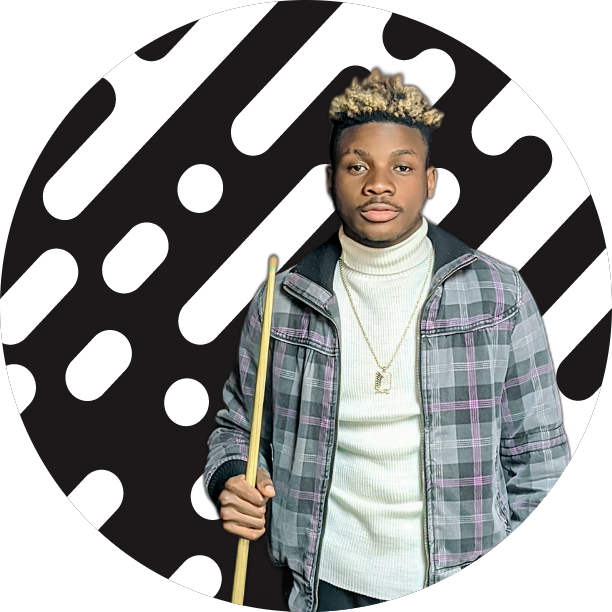
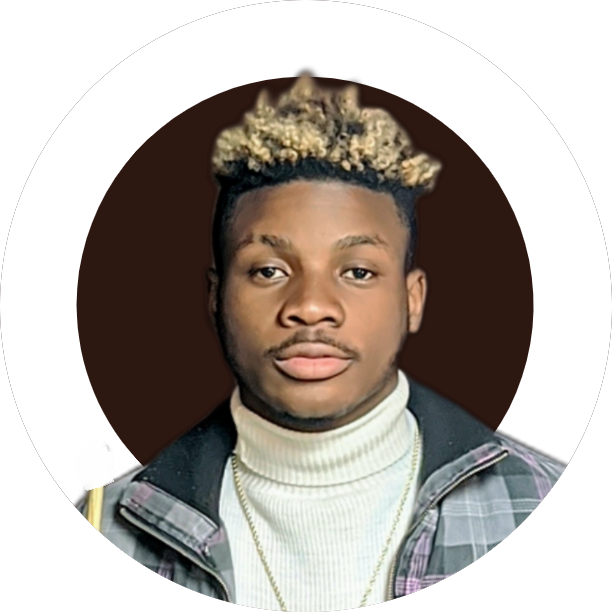
Modification de la section compétences et de la photo de profil

diff --git a/index.html b/index.html
@@ -8,7 +8,7 @@
 		<title>Machkour Oke</title>
 		<link rel="icon" type="image/x-icon" href="assets/img/favicon.ico"/>
 		<script src="https://use.fontawesome.com/releases/v6.1.0/js/all.js" crossorigin="anonymous"></script>
-
+		
 		<link href="https://fonts.googleapis.com/css?family=Saira+Extra+Condensed:500,700" rel="stylesheet"
 		      type="text/css"/>
 		<link href="https://fonts.googleapis.com/css?family=Muli:400,400i,800,800i" rel="stylesheet" type="text/css"/>
@@ -53,10 +53,12 @@
 						Je suis MACHKOUR OKE élève en informatique et ingenierie de données. <br>Je suis disposé pour
 						tout stage ou pour tout encadrement</p>
 					<div class="social-icons">
-						<a class="social-icon" href="https://www.linkedin.com/in/machkour-oke-b365161ba/"><i class="fab fa-linkedin-in"></i></a>
+						<a class="social-icon" href="https://www.linkedin.com/in/machkour-oke-b365161ba/"><i
+								class="fab fa-linkedin-in"></i></a>
 						<a class="social-icon" href="https://github.com/machkouroke"><i class="fab fa-github"></i></a>
 						<a class="social-icon" href="https://twitter.com/machkouroke"><i class="fab fa-twitter"></i></a>
-						<a class="social-icon" href="https://www.facebook.com/machkour.oke/"><i class="fab fa-facebook-f"></i></a>
+						<a class="social-icon" href="https://www.facebook.com/machkour.oke/"><i
+								class="fab fa-facebook-f"></i></a>
 					</div>
 				</div>
 			</section>
@@ -64,55 +66,41 @@
 			<!-- Competences -->
 			<section class="resume-section" id="competences">
 				<div class="resume-section-content">
-					<h2 class="mb-5">Compétence</h2>
-					<div class="container">
-						<div class="row">
-							<div class="col-md-6">
-								<div class="progress green">
-									<h3 class="progress-title"><img src="assets/icons/python.png" alt=""></h3>
-									<div class="progress-bar">
-										<div  style="width: 90%;">90%</div>
-									</div>
-								</div>
-								
-								<div class="progress yellow">
-									<h3 class="progress-title"><img src="assets/icons/java.png" alt=""></h3>
-									<div class="progress-bar">
-										<div  style="width: 85%;">85%</div>
-									</div>
-								</div>
-								<div class="progress orange">
-									<h3 class="progress-title"><img src="assets/icons/html.png" alt=""></h3>
-									<div class="progress-bar">
-										<div  style="width: 80%;">80%</div>
-									</div>
-								</div>
-								<div class="progress blue">
-									<h3 class="progress-title"><img src="assets/icons/css.png" alt=""></h3>
-									<div class="progress-bar">
-										<div  style="width: 75%;">75%</div>
-									</div>
-								</div>
-								<div class="progress mauve">
-									<h3 class="progress-title"><img src="assets/icons/php.png" alt=""></h3>
-									<div class="progress-bar">
-										<div  style="width: 75%;">75%</div>
-									</div>
-								</div>
-								<div class="progress or">
-									<h3 class="progress-title"><img src="assets/icons/js.png" alt=""></h3>
-									<div class="progress-bar">
-										<div style="width: 60%;">60%</div>
-									</div>
-								</div>
-								<div class="progress red">
-									<h3 class="progress-title"><img src="assets/icons/c++.png" alt=""></h3>
-									<div class="progress-bar">
-										<div style="width: 40%;">40%</div>
-									</div>
-								</div>
-							
+					<h2 class="mb-5">Compétences Informatiques</h2>
+					<div class="py-3 container d-flex justify-content-center align-content-between">
+						
+						<div class="row  g-5">
+							<div class="col-4">
+								<h3 class="progress-title"><img src="assets/icons/python.png" alt=""></h3>
+								<p>Python</p>
 							</div>
+							
+							<div class="col-4">
+								<h3 class="progress-title"><img src="assets/icons/java.png" alt=""></h3>
+								<p>Java</p>
+							</div>
+							<div class="col-4">
+								<h3 class="progress-title"><img src="assets/icons/html.png" alt=""></h3>
+								<p>HTML</p>
+							</div>
+							<div class="col-4">
+								<h3 class="progress-title"><img src="assets/icons/css.png" alt=""></h3>
+								<p>CSS3</p>
+							</div>
+							<div class="col-4">
+								<h3 class="progress-title"><img src="assets/icons/php.png" alt=""></h3>
+								<p>PHP</p>
+							</div>
+							<div class="col-4">
+								<h3 class="progress-title"><img src="assets/icons/js.png" alt=""></h3>
+								<p>JS</p>
+							</div>
+							<div class="col-4">
+								<h3 class="progress-title"><img src="assets/icons/c++.png" alt=""></h3>
+								<p>C++</p>
+							</div>
+						
+						
 						</div>
 					</div>
 				
@@ -133,9 +121,9 @@
 						</a>
 						<a class="col project" href="https://github.com/machkouroke/LOPCopy">
 							<div class="card rounded-3 shadow"><img alt=""
-							      class="card-img d-block"
-							      src="assets/img/project/LOPCopy.png"/>
-								
+							                                        class="card-img d-block"
+							                                        src="assets/img/project/LOPCopy.png"/>
+							
 							</div>
 							<p class="text-center"><b>LOPCopy</b><br> Application d'organisation de fichier</p>
 						</a>
@@ -149,7 +137,7 @@
 							<div class="card rounded-3 shadow"><img alt="" class="card-img d-block"
 							                                        src="assets/img/project/LOPReservation.png"/></div>
 							<p class="text-center"><b>LOPReservation</b><br> Application de gestion des réservations
-							de salle d'une école</p>
+							                                                 de salle d'une école</p>
 						</a>
 						<a class="col project" href="https://github.com/machkouroke/LOPBlockChain">
 							<div class="card rounded-3 shadow"><img alt="" class="card-img  d-block"

diff --git a/css/style.css b/css/style.css
@@ -6922,7 +6922,7 @@ textarea.form-control-lg {
   display: table-cell !important;
 }
 
-.d-flex {
+.d-flex, .container .row .col-4 {
   display: flex !important;
 }
 
@@ -7199,7 +7199,7 @@ textarea.form-control-lg {
   flex-direction: row !important;
 }
 
-.flex-column {
+.flex-column, .container .row .col-4 {
   flex-direction: column !important;
 }
 
@@ -7295,7 +7295,7 @@ textarea.form-control-lg {
   align-items: flex-end !important;
 }
 
-.align-items-center {
+.align-items-center, .container .row .col-4 {
   align-items: center !important;
 }
 

diff --git a/scss/style.scss b/scss/style.scss
@@ -122,6 +122,13 @@
     text-transform: lowercase;
   }
 }
+.container {
+  .row {
+    .col-4 {
+      @extend .d-flex, .flex-column, .align-items-center;
+    }
+  }
+}
 @media only screen and (max-width: 480px) {
   .progress .progress-title {
     font-size: 12px;

diff --git a/js/scripts.js b/js/scripts.js
@@ -42,7 +42,7 @@ function startAnimation(entries, observer) {
 let options = {
     root: null,
     rootMargin: '10px',
-    threshold: 0.3
+    threshold: 0.4
 }
 
 let observer = new IntersectionObserver(startAnimation, options);
